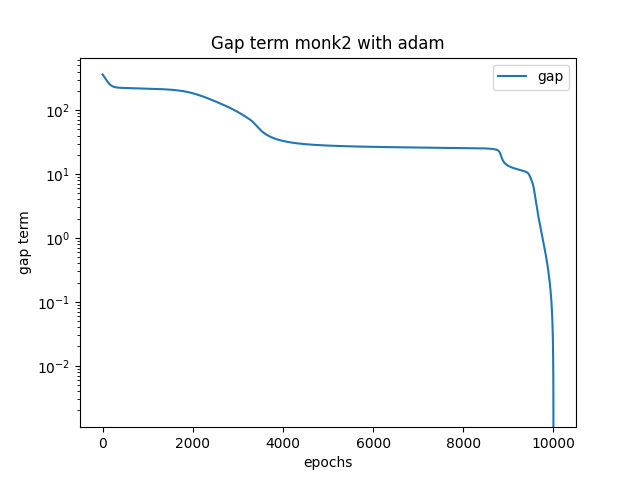
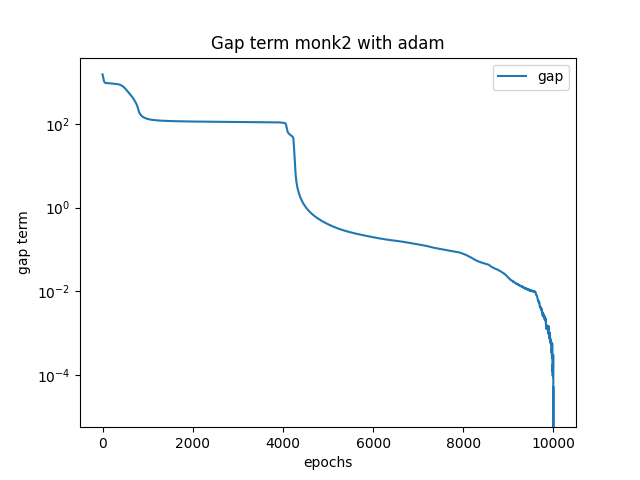
added last plots

diff --git a/src/NN/testNET.py b/src/NN/testNET.py
@@ -103,7 +103,7 @@ params = {
             'alpha': 0.001,
             'batch_size': None,
             'hidden_layer_sizes': [3, 5],
-            'learning_rate_init': 0.001,
+            'learning_rate_init': 0.005,
             'max_iter': 10000,
             'solver': 'adam',
             'tol': 1e-6
